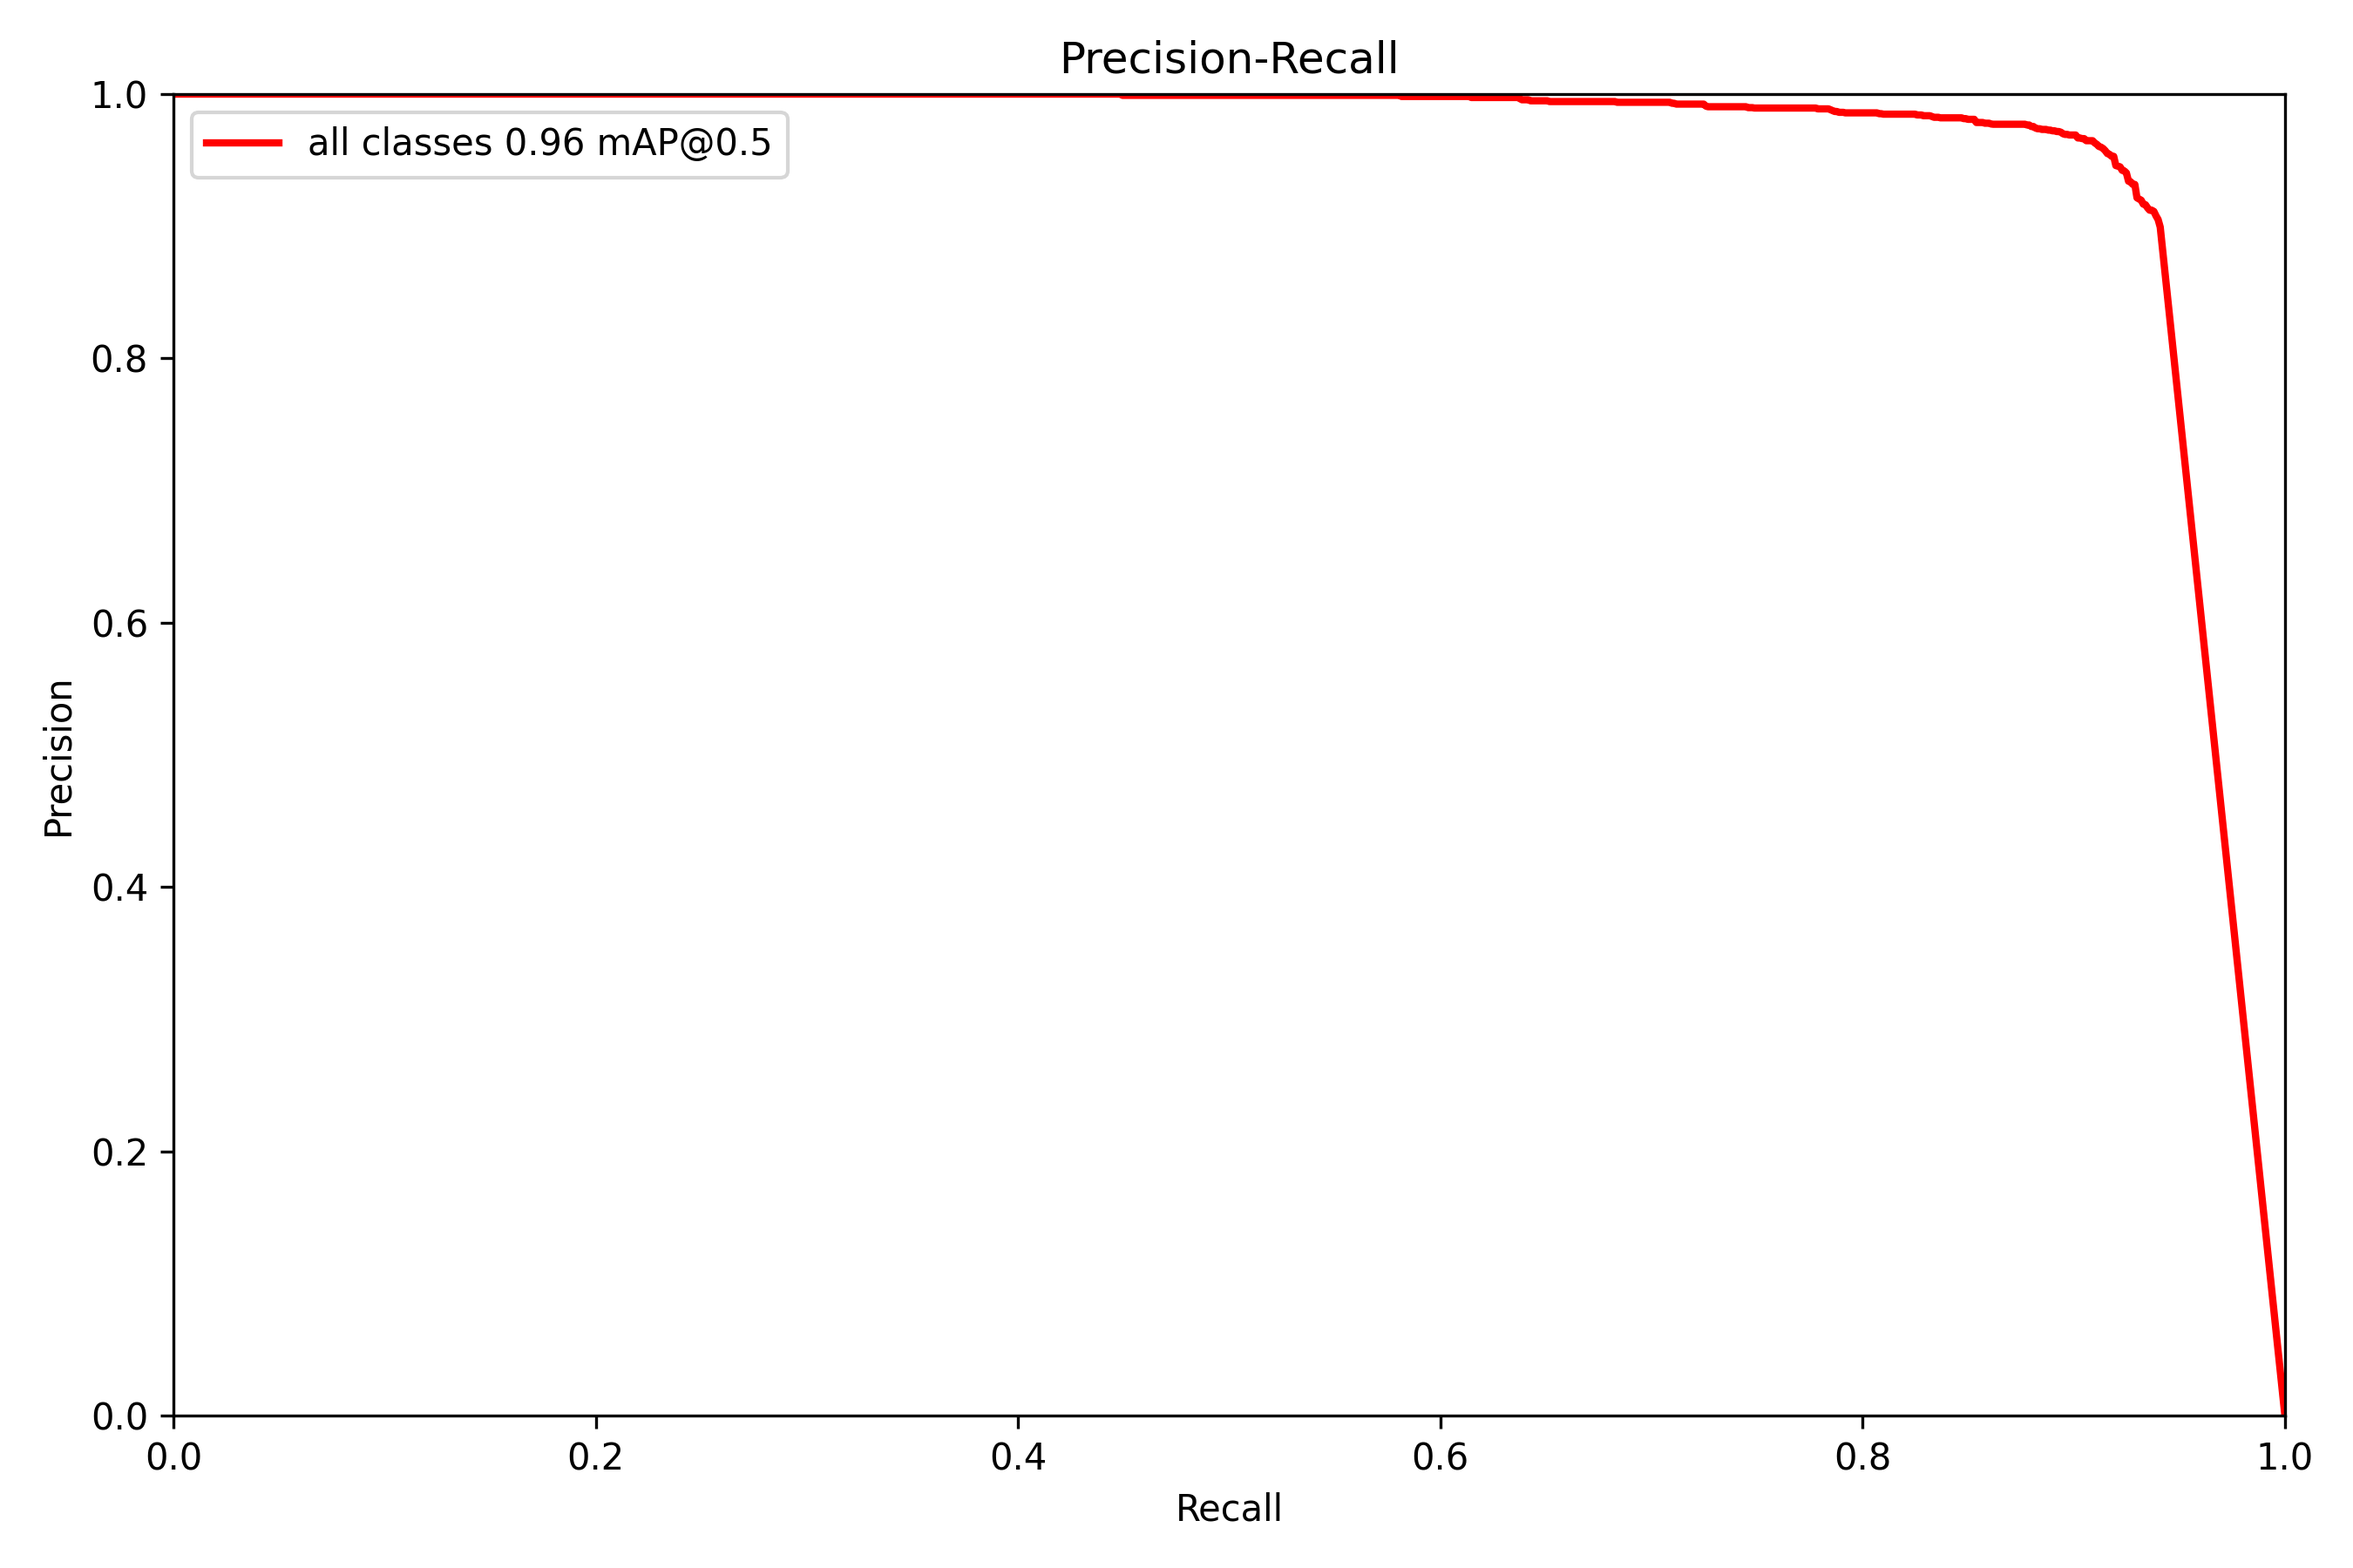
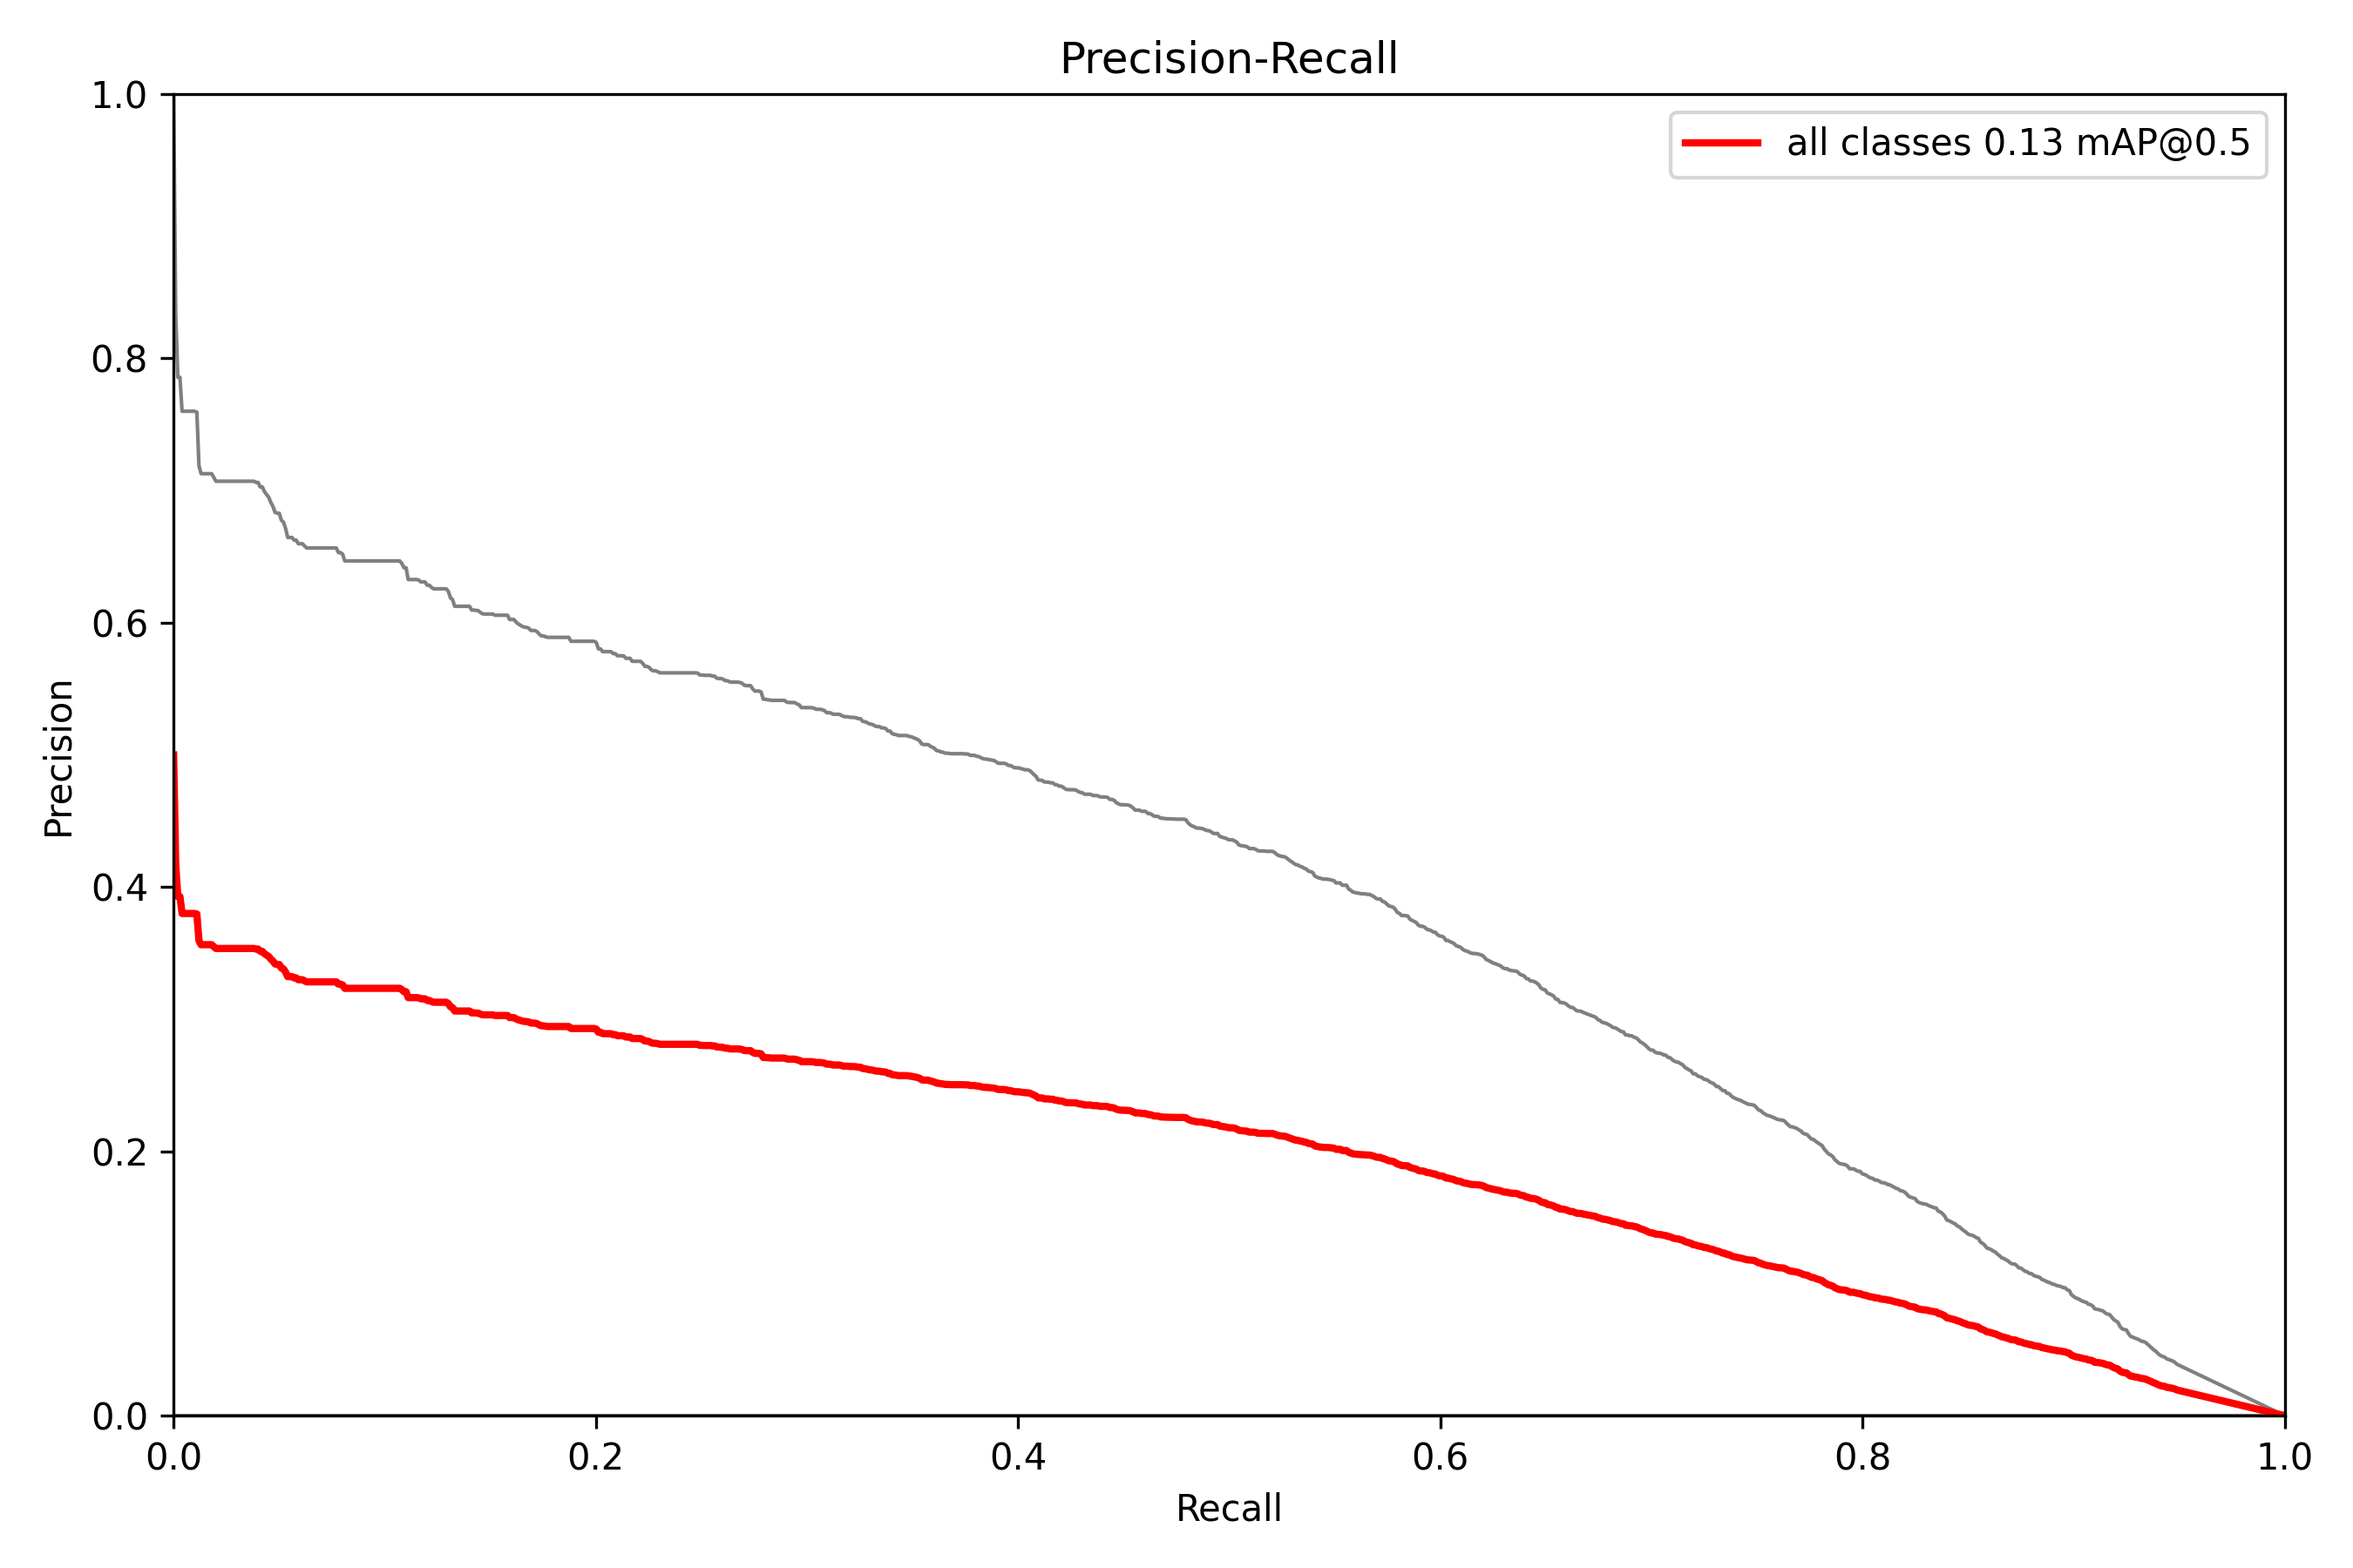
bug fixes

diff --git a/loss/fcos_loss.py b/loss/fcos_loss.py
@@ -33,17 +33,13 @@ class FCOSLoss:
         self.bce_ctr = nn.BCEWithLogitsLoss(pos_weight=ctr_pos_weight, reduction='none').to(self.device)
         self.l1_reg = nn.L1Loss()
         self.input_img_size = hyp['input_img_size']
-        self.ctr_loss_balances = [4., 1., 0.4] if stage_num == 3 else [1., 2., 4., 0.2, 0.1]
-        self.cls_loss_balances = [4., 1., 0.4] if stage_num == 3 else [1., 2., 4., 0.2, 0.1]
-        self.reg_loss_balances = [4., 1., 0.4] if stage_num == 3 else [1., 2., 4., 0.2, 0.1]
-        self.fpn_loss_balances = [0.1, 0.5, 1.0, 0.5, 0.1]
         self.num_stage = stage_num
         self.positive_smooth_cls, self.negative_smooth_cls = smooth_bce(self.hyp['class_smooth_factor'])
         self.radius = hyp['center_sampling_radius']
         self.grids = None
         self.eps = self.hyp['eps']
 
-    def compute_iou_loss(self, pred, tar, weight=None):
+    def compute_iou_loss(self, pred: torch.FloatTensor, tar: torch.FloatTensor, weight=None):
         """
         Inputs:
             pred: (m, 4) / [l, t, r, b]
@@ -54,28 +50,20 @@ class FCOSLoss:
         if weight is not None:
             assert pred.size(0) == len(weight)
 
-        pred_left   = pred[:, 0]  # (m,)
-        pred_top    = pred[:, 1]  # (m,)
-        pred_right  = pred[:, 2]  # (m,)
-        pred_bottom = pred[:, 3]  # (m,)
+        pred_left, pred_top, pred_right, pred_bottom = pred.chunk(4, -1)  # (m, 1)
+        target_left, target_top, target_right, target_bottom = tar.chunk(4, -1)  # (m, 1)
+        target_area = (target_left + target_right) * (target_top + target_bottom)  # (m, 1)
+        pred_area   = (pred_left   + pred_right)   * (pred_top   + pred_bottom)    # (m, 1)
 
-        target_left   = tar[:, 0]  # (m,)
-        target_top    = tar[:, 1]  # (m,)
-        target_right  = tar[:, 2]  # (m,)
-        target_bottom = tar[:, 3]  # (m,)
-
-        target_area = (target_left + target_right) * (target_top + target_bottom)  # (m,)
-        pred_area   = (pred_left   + pred_right)   * (pred_top   + pred_bottom)    # (m,)
-
-        w_intersect = torch.min(pred_left, target_left) + torch.min(pred_right, target_right)    # (m,)
-        g_w_intersect = torch.max(pred_left, target_left) + torch.max(pred_right, target_right)  # (m,)
-        h_intersect = torch.min(pred_bottom, target_bottom) + torch.min(pred_top, target_top)    # (m,)
-        g_h_intersect = torch.max(pred_bottom, target_bottom) + torch.max(pred_top, target_top)  # (m,)
-        ac_uion = g_w_intersect * g_h_intersect + self.eps  # (m,)
-        area_intersect = w_intersect * h_intersect  # (m,)
-        area_union = target_area + pred_area - area_intersect
-        ious = (area_intersect + 1.0) / (area_union + 1.0)
-        gious = ious - (ac_uion - area_union) / ac_uion
+        w_intersect = torch.min(pred_left, target_left) + torch.min(pred_right, target_right)    # (m, 1)
+        g_w_intersect = torch.max(pred_left, target_left) + torch.max(pred_right, target_right)  # (m, 1)
+        h_intersect = torch.min(pred_bottom, target_bottom) + torch.min(pred_top, target_top)    # (m, 1)
+        g_h_intersect = torch.max(pred_bottom, target_bottom) + torch.max(pred_top, target_top)  # (m, 1)
+        ac_uion = g_w_intersect.clamp_(0.0) * g_h_intersect.clamp_(0.0) + self.eps  # (m, 1)
+        area_intersect = w_intersect.clamp_(0.0) * h_intersect.clamp_(0.0)  # (m, 1)
+        area_union = target_area + pred_area - area_intersect  # (m, 1)
+        ious = (area_intersect + 1.0) / (area_union.clamp_(0.0) + 1.0)  # (m, 1)
+        gious = ious - (ac_uion - area_union) / ac_uion  # (m, 1)
         if self.hyp['iou_type'] == 'iou':
             losses = -torch.log(ious)
         elif self.hyp['iou_type'] == 'linear_iou':
@@ -136,8 +124,9 @@ class FCOSLoss:
                 if pos_num > 0:
                     # --------------------------------------------------------------------------------- centerness loss
                     tmp_tars_cen[(pos_idx[0], pos_idx[1])] = ctr_tar.unsqueeze(dim=-1).type_as(tmp_pred_ctr)
-                    ctr_loss = self.bce_ctr(tmp_pred_ctr[(pos_idx[0], pos_idx[1])].reshape(-1, 1), tmp_tars_cen[(pos_idx[0], pos_idx[1])].reshape(-1, 1)).sum()
-                    ctr_loss /= pos_num
+                    ctr_focal = self.focal_loss_factor(tmp_pred_ctr[(pos_idx[0], pos_idx[1])].reshape(-1, 1), tmp_tars_cen[(pos_idx[0], pos_idx[1])].reshape(-1, 1))
+                    ctr_loss = self.bce_ctr(tmp_pred_ctr[(pos_idx[0], pos_idx[1])].reshape(-1, 1), tmp_tars_cen[(pos_idx[0], pos_idx[1])].reshape(-1, 1))
+                    ctr_loss = (ctr_loss * ctr_focal).sum() / pos_num
                     stage_ctr_loss.append(ctr_loss)
 
                     # --------------------------------------------------------------------------------- regression loss
@@ -145,7 +134,6 @@ class FCOSLoss:
                     iou_loss = self.compute_iou_loss(tmp_pred_reg[(pos_idx[0], pos_idx[1])], reg_tar, ctr_tar)
                     iou_loss /= (loss_denorm * pos_num)
                     stage_reg_loss.append(iou_loss)
-                    # stage_reg_loss.append(self.compute_iou_loss(tmp_pred_reg[(pos_idx[0], pos_idx[1])], reg_tar, ctr_tar) / (loss_denorm * pos_num))
                     
                     # --------------------------------------------------------------------------------- classification loss
                     tmp_tars_cls[(pos_idx[0], pos_idx[1], cls_tar.long())] = self.positive_smooth_cls  # foreground class
@@ -154,23 +142,17 @@ class FCOSLoss:
                     stage_reg_loss.append(tmp_pred_reg.new_tensor(0.0))
                     stage_ctr_loss.append(self.bce_ctr(tmp_pred_ctr.reshape(-1, 1), tmp_tars_cen.reshape(-1, 1)).mean())
 
-                focal = self.focal_loss_factor(tmp_pred_cls.float().reshape(-1, self.hyp['num_class']), tmp_tars_cls.float().reshape(-1, self.hyp['num_class'])) 
+                cls_focal = self.focal_loss_factor(tmp_pred_cls.float().reshape(-1, self.hyp['num_class']), tmp_tars_cls.float().reshape(-1, self.hyp['num_class'])) 
                 cls_loss = self.bce_cls(tmp_pred_cls.float().reshape(-1, self.hyp['num_class']), tmp_tars_cls.float().reshape(-1, self.hyp['num_class']))
-                cls_loss = (cls_loss * focal).mean(-1).sum() / max(pos_num, 1.0)
+                cls_loss = (cls_loss * cls_focal).mean(-1).sum() / max(pos_num, 1.0)
                 stage_cls_loss.append(cls_loss)
 
-            balance_reg_loss, balance_ctr_loss, balance_cls_loss = self.compute_balance_losses(s, 
-                                                                                               stage_reg_loss=torch.stack(stage_reg_loss, dim=0).mean(), 
-                                                                                               stage_ctr_loss=torch.stack(stage_ctr_loss, dim=0).mean(), 
-                                                                                               stage_cls_loss=torch.stack(stage_cls_loss, dim=0).mean())
-            # balance_ctr_loss *= self.fpn_loss_balances[s]
-            # balance_cls_loss *= self.fpn_loss_balances[s]
-            # balance_reg_loss *= self.fpn_loss_balances[s]
+            balance_reg_loss = torch.stack(stage_reg_loss, dim=0).mean()
+            balance_ctr_loss = torch.stack(stage_ctr_loss, dim=0).mean()
+            balance_cls_loss = torch.stack(stage_cls_loss, dim=0).mean()
             tot_ctr_loss.append(balance_ctr_loss)
             tot_cls_loss.append(balance_cls_loss)
             tot_reg_loss.append(balance_reg_loss)
-
-        self.update_balances() 
 
         scale = batch_size
         ctr_loss_out = torch.stack(tot_ctr_loss, dim=0).mean() * self.hyp['ctr_loss_weight']
@@ -184,31 +166,7 @@ class FCOSLoss:
                 'reg_loss': reg_loss_out.detach().item() * scale, 
                 'tar_nums': target_num}
     
-    def compute_balance_losses(self, stage, stage_reg_loss, stage_ctr_loss, stage_cls_loss):
-        if self.hyp['do_cen_loss_balance']:
-            stage_ctr_loss = stage_ctr_loss * self.ctr_loss_balances[stage]
-            self.ctr_loss_balances[stage] = self.ctr_loss_balances[stage] * 0.9999 + 0.0001 / (stage_ctr_loss.detach().item() if stage_ctr_loss.detach().item() != 0 else 1.0)
-            
-        if self.hyp['do_cls_loss_balance']:
-            stage_cls_loss = stage_cls_loss * self.cls_loss_balances[stage]
-            self.cls_loss_balances[stage] = self.cls_loss_balances[stage] * 0.9999 + 0.0001 / (stage_cls_loss.detach().item() if stage_cls_loss.detach().item() != 0 else 1.0)
-
-        if self.hyp['do_reg_loss_balance']:
-            stage_reg_loss = stage_reg_loss * self.reg_loss_balances[stage]
-            self.reg_loss_balances[stage] = self.reg_loss_balances[stage] * 0.9999 + 0.0001 / (stage_reg_loss.detach().item() if stage_reg_loss.detach().item() != 0 else 1.0)
-
-        return stage_reg_loss, stage_ctr_loss, stage_cls_loss
-    
-    def update_balances(self):
-        if self.hyp['do_cen_loss_balance']:
-            self.cen_loss_balances = [x/self.cen_loss_balances[self.num_stage // 2] for x in self.cen_loss_balances]
-
-        if self.hyp['do_cls_loss_balance']:
-            self.cls_loss_balances = [x/self.cls_loss_balances[self.num_stage // 2] for x in self.cls_loss_balances]
-            
-        if self.hyp['do_reg_loss_balance']:
-            self.reg_loss_balances = [x/self.reg_loss_balances[self.num_stage // 2] for x in self.reg_loss_balances]
-
+    @torch.no_grad()
     def build_targets(self, grid, tar_box, tar_cls, reg_obj_size, stride):
         """
         Inputs:
@@ -361,7 +319,6 @@ class FCOSLoss:
         alpha = self.hyp.get('focal_loss_alpha', 0.25)
         alpha_factor = target * alpha + (1.0 - target) * (1.0 - alpha)
         factor = gamma_factor * alpha_factor
-
         return factor
 
     def make_grid(self, shape_list):
@@ -370,13 +327,13 @@ class FCOSLoss:
             shape_list: [[h/8, w/8], [h/16, w/16], [h/32, w/32], [h/64, w/64], [h/128, w/128]]
         """
         grids = []
-        for s, (h, w) in enumerate(shape_list):
+        for h, w in shape_list:
             stride = self.input_img_size[0] / h
             shift_x = torch.arange(0, w*stride, step=stride, device=self.device, dtype=torch.float32)
             shift_y = torch.arange(0, h*stride, step=stride, device=self.device, dtype=torch.float32)
             y, x = torch.meshgrid((shift_x, shift_y), indexing='ij')
             # mesh_grid: (col_num, row_num, 2) -> (row_num, col_num, 2)
-            mesh_grid = torch.stack((x, y), dim=2).reshape(h, w, 2) + stride // 2
+            mesh_grid = torch.stack((y, x), dim=2).flip(dims=(-1,)) + stride // 2
             # (col_num, row_num, 2)
             grids.append(mesh_grid)
         return grids

diff --git a/trainer/eval_fcos.py b/trainer/eval_fcos.py
@@ -16,7 +16,6 @@ class FCOSEvaluator:
         self.device = hyp['device']
         self.num_class = hyp['num_class']
         self.ds_scales = [8, 16, 32, 64, 128]
-        
         self.inp_h, self.inp_w = hyp['input_img_size']
         self.use_tta = hyp['use_tta']
         self.grid_coords = [self.make_grid(self.inp_h//s, self.inp_w//s, s).float() for s in self.ds_scales]
@@ -188,7 +187,7 @@ class FCOSEvaluator:
         shift_y = torch.arange(0, row_num*stride, step=stride, device=self.device, dtype=torch.float32)
         y, x = torch.meshgrid((shift_x, shift_y), indexing='ij')
         # mesh_grid: (col_num, row_num, 2) -> (row_num, col_num, 2)
-        mesh_grid = torch.stack((x, y), dim=2).reshape(row_num, col_num, 2) + stride // 2
+        mesh_grid = torch.stack((y, x), dim=2).flip(dims=(-1,)) + stride // 2
         return mesh_grid[None, ...].contiguous()  # (1, col_num, row_num, 2)
 
     @staticmethod
